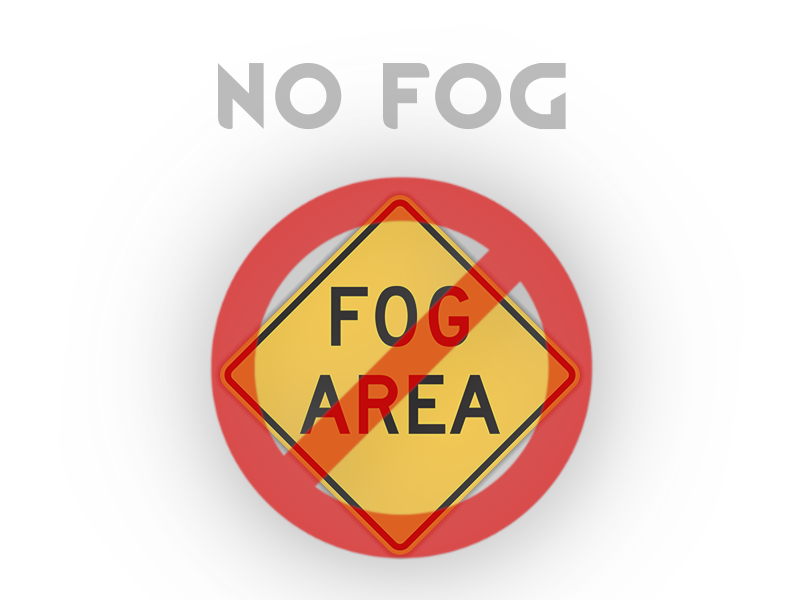
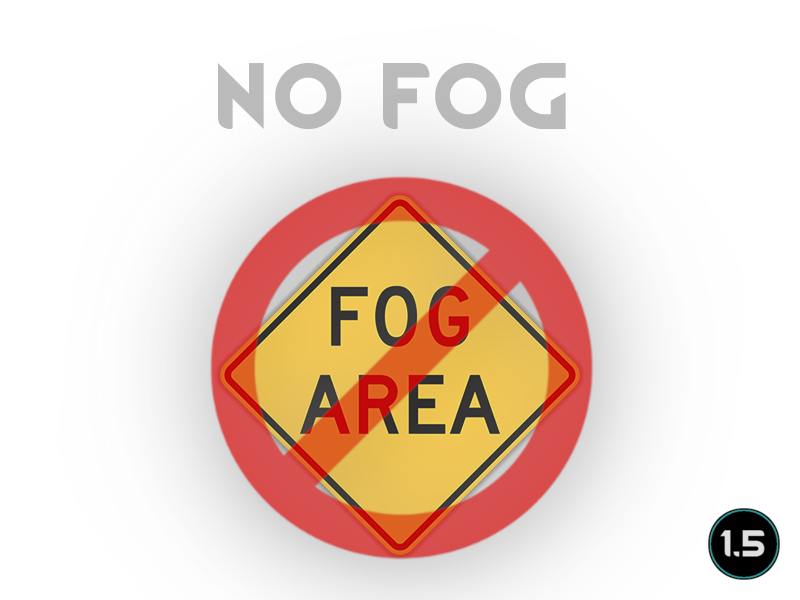
Mod updated for 1.5 and passed autotests

Changed region(s): [[0.875, 0.84, 1.0, 0.99]]

diff --git a/Source/NoFog/Map_FinalizeInit.cs b/Source/NoFog/Map_FinalizeInit.cs
@@ -3,7 +3,7 @@ using Verse;
 
 namespace NoFog;
 
-[HarmonyPatch(typeof(Map), "FinalizeInit")]
+[HarmonyPatch(typeof(Map), nameof(Map.FinalizeInit))]
 public static class Map_FinalizeInit
 {
     public static void Postfix(Map __instance)

diff --git a/README.md b/README.md
@@ -20,10 +20,13 @@ https://ko-fi.com/G2G55DDYD]![Image](https://i.imgur.com/VWG0yff.png)
 
 -  See if the the error persists if you just have this mod and its requirements active.
 -  If not, try adding your other mods until it happens again.
--  Post your error-log using https://steamcommunity.com/workshop/filedetails/?id=818773962]HugsLib and command Ctrl+F12
+-  Post your error-log using https://steamcommunity.com/workshop/filedetails/?id=818773962]HugsLib or the standalone https://steamcommunity.com/sharedfiles/filedetails/?id=2873415404]Uploader and command Ctrl+F12
 -  For best support, please use the Discord-channel for error-reporting.
 -  Do not report errors by making a discussion-thread, I get no notification of that.
 -  If you have the solution for a problem, please post it to the GitHub repository.
+-  Use https://github.com/RimSort/RimSort/releases/latest]RimSort to sort your mods
 
 
+
+https://steamcommunity.com/sharedfiles/filedetails/changelog/2993678796]![Image](https://img.shields.io/github/v/release/emipa606/NoFog?label=latest%20version&style=plastic&labelColor=0070cd&color=white)
 
